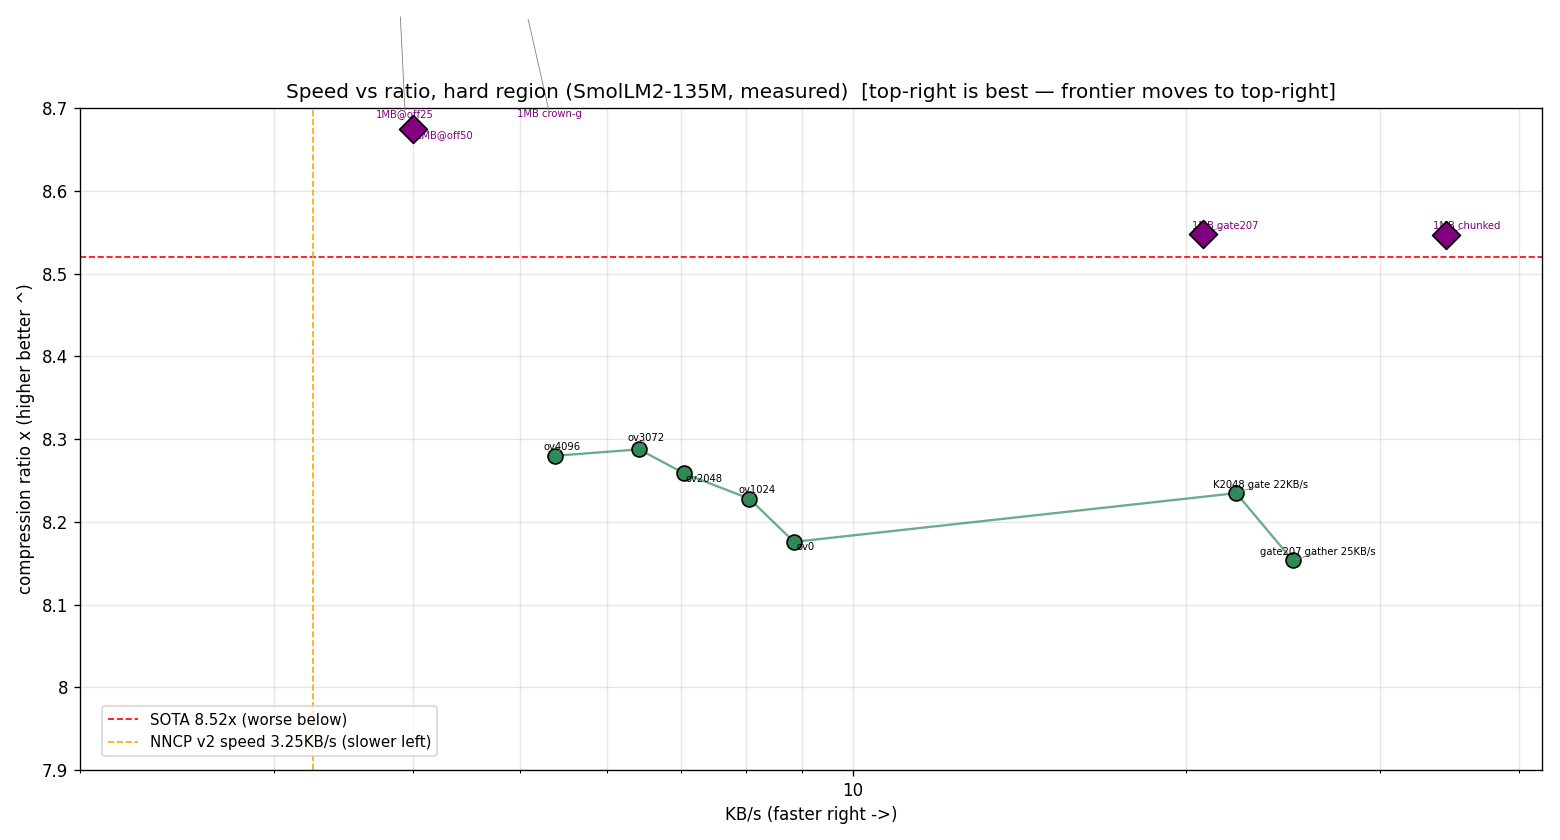
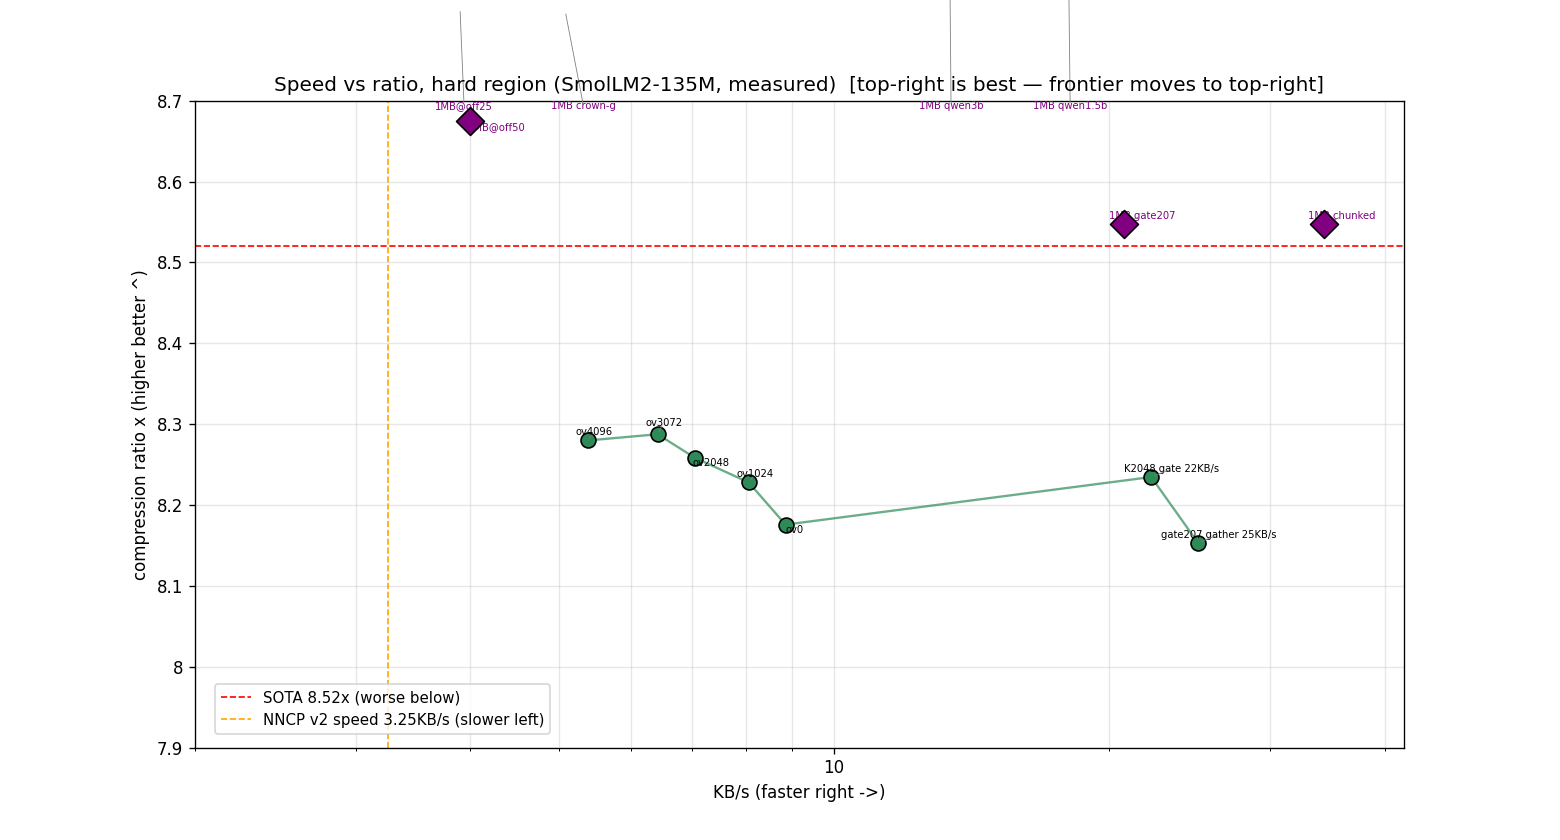
All-models Pareto plot: SmolLM2+Qwen1.5B+Qwen3B, 50 points, README updated

diff --git a/tools/pareto_plot.py b/tools/pareto_plot.py
@@ -61,6 +61,27 @@ MB1 = [
     ("1MB gate207", 1024 / 49.4, 0.9359),
     ("1MB crown-g", 1024 / 201.6, 0.9079),
     ("1MB chunked", 1024 / 29.8, 0.9360),
+    ("1MB qwen1.5b", 1024 / 59.5, 0.7319),
+    ("1MB qwen3b", 1024 / 79.9, 0.7103),
+]
+# Qwen-1.5B line (100KB, separate because different tokenizer/model)
+QWEN15B = [
+    ("qwen1.5b\nK1024/B8192", 100 / 5.51, 0.7402),
+    ("qwen1.5b\nK2048/B8192", 100 / 5.95, 0.7319),
+    ("qwen1.5b\nK1024/B16384", 100 / 8.04, 0.7324),
+    ("qwen1.5b\nK4096/B8192", 100 / 9.48, 0.7281),
+    ("qwen1.5b\nK2048/B16384", 100 / 19.79, 0.7208),
+    ("qwen1.5b\nK2048/B28672", 100 / 25.97, 0.7193),
+    ("qwen1.5b\nK4096/16384ov", 100 / 22.8, 0.7005),
+    ("qwen1.5b\nK4096/28672*", 100 / 35.7, 0.6996),
+]
+# Qwen-3B line (100KB)
+QWEN3B = [
+    ("qwen3b\nK1024/B2048", 100 / 9.7, 0.6845),
+    ("qwen3b\nK1024/B4096", 100 / 15.4, 0.6706),
+    ("qwen3b\nK2048/B4096", 100 / 19.8, 0.6650),
+    ("qwen3b\nK2048/B8192", 100 / 30.0, 0.6573),
+    ("qwen3b\nK2048/B28672*", 100 / 263.4, 0.6450),
 ]
 SOTA_BPB = 0.9389          # Nacrith paper, full file
 SOTA_RATIO = 8.0 / SOTA_BPB  # 8.52x: higher-is-better twin of the SOTA line
@@ -130,4 +151,54 @@ ax.set_xlim(2, 42)
 fig.tight_layout()
 fig.savefig("pareto_off75.png", dpi=120)
 print("saved pareto_off75.png")
-print(f"points: {len(OFF50) + len(OFF75) + len(MB1)}")
+
+# ---- plot 3: all models combined (Qwen + SmolLM2) ----
+from adjustText import adjust_text as _adj
+fig, ax = plt.subplots(figsize=(14, 8))
+ax.axhline(SOTA_RATIO, color="red", linestyle="--", linewidth=1, label="SOTA 8.52x")
+ax.axvline(NNCP_KBS, color="orange", linestyle="--", linewidth=1, label="NNCP 3.25KB/s")
+# SmolLM2 line (reference)
+_sx = [p[1] for p in OFF50]
+_sy = [8/p[2] for p in OFF50]
+_order = sorted(range(len(OFF50)), key=lambda i: OFF50[i][1])
+ax.plot([_sx[i] for i in _order], [_sy[i] for i in _order], "o-", color="steelblue", lw=1.2, alpha=0.5, label="SmolLM2-135M")
+# Qwen-1.5B line
+_qx = [p[1] for p in QWEN15B]
+_qy = [8/p[2] for p in QWEN15B]
+_order = sorted(range(len(QWEN15B)), key=lambda i: QWEN15B[i][1])
+ax.plot([_qx[i] for i in _order], [_qy[i] for i in _order], "s-", color="darkorange", lw=1.5, label="Qwen-1.5B")
+for lab, x, b in QWEN15B:
+    ax.scatter([x], [8/b], s=70, marker="s", color="darkorange", edgecolors="black", zorder=3)
+# Qwen-3B line
+_tx = [p[1] for p in QWEN3B]
+_ty = [8/p[2] for p in QWEN3B]
+_order = sorted(range(len(QWEN3B)), key=lambda i: QWEN3B[i][1])
+ax.plot([_tx[i] for i in _order], [_ty[i] for i in _order], "^-", color="crimson", lw=1.5, label="Qwen-3B")
+for lab, x, b in QWEN3B:
+    ax.scatter([x], [8/b], s=70, marker="^", color="crimson", edgecolors="black", zorder=3)
+# 1MB diamonds
+for lab, x, b in MB1:
+    y = 8/b
+    ax.scatter([x], [y], s=120, marker="D", color="purple", edgecolors="black", zorder=4)
+# Labels
+_texts = []
+for lab, x, b in QWEN15B:
+    t = ax.text(x, 8/b, lab.replace("\n"," "), fontsize=6, ha="center", va="bottom", color="darkorange")
+    _texts.append(t)
+for lab, x, b in QWEN3B:
+    t = ax.text(x, 8/b, lab.replace("\n"," "), fontsize=6, ha="center", va="bottom", color="crimson")
+    _texts.append(t)
+_adj(_texts, ax=ax, arrowprops=dict(arrowstyle="-", color="gray", lw=0.5), expand_points=(1.3,1.5), force_text=0.3, lim=80)
+ax.set_xscale("log")
+ax.set_xlabel("KB/s (faster right, log)")
+ax.set_ylabel("compression ratio x = 8/bpb (higher better ^)")
+ax.set_title("All models: Pareto (top-right is best)")
+ax.set_xlim(0.3, 60)
+ax.set_ylim(10, 14)
+ax.grid(True, which="both", alpha=0.3)
+ax.legend(fontsize=8)
+_plain(ax)
+fig.tight_layout()
+fig.savefig("pareto_all_models.png", dpi=120)
+print("saved pareto_all_models.png")
+print(f"points: {len(OFF50) + len(OFF75) + len(MB1) + len(QWEN15B) + len(QWEN3B)}")

diff --git a/README.md b/README.md
@@ -23,6 +23,7 @@ Classical codecs are ~10⁶× faster at 2–3× worse ratio — different worlds
 
 ![Pareto: article region, top-right is best (ideal corner empty = tradeoff)](pareto_off50.png)
 ![Pareto: hard region](pareto_off75.png)
+![All models Pareto: SmolLM2 + Qwen-1.5B + Qwen-3B](pareto_all_models.png)
 ![Scale ladders, top-right is best](scale_time_size.png)
 ![Balance score, top-right is best](balance_curve.png)
 
